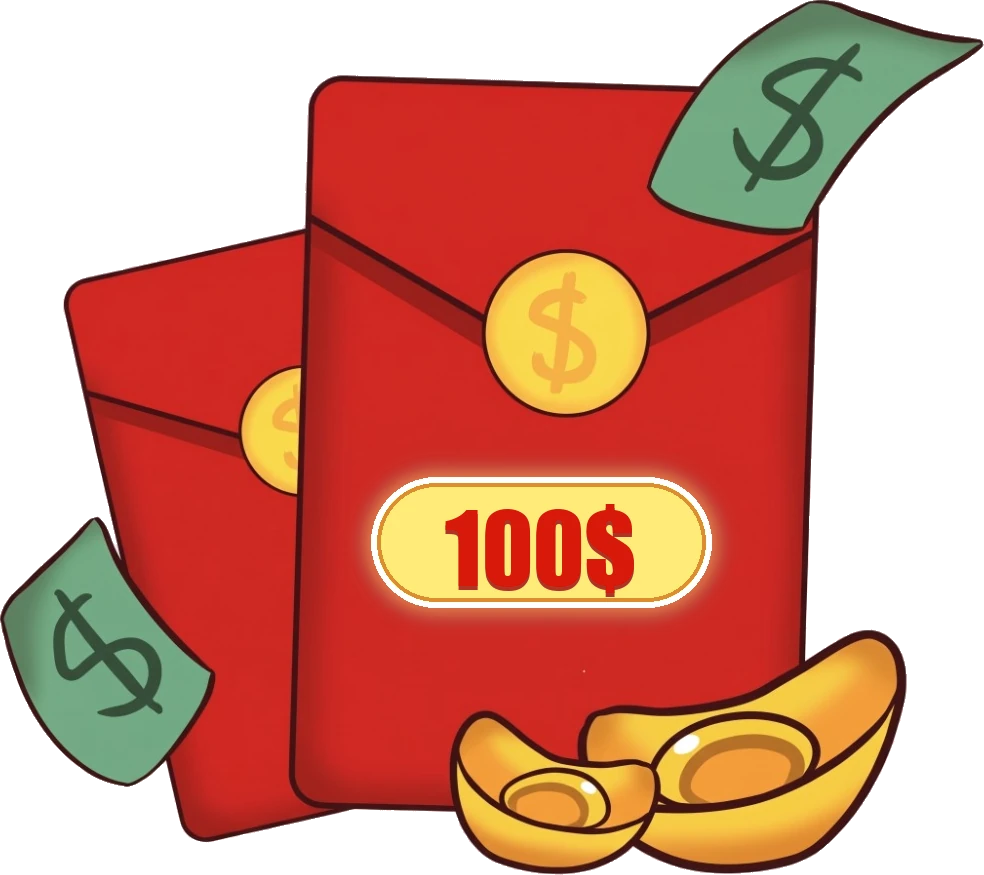
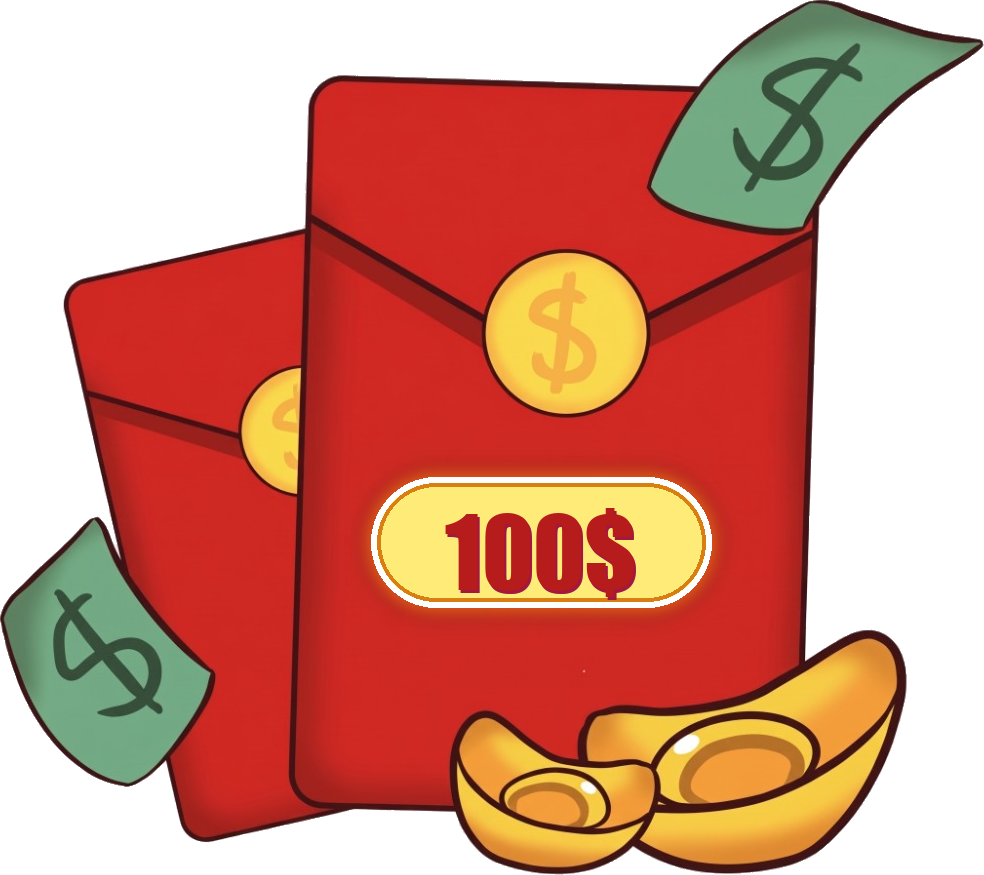
fix(angpao): regenerate 20$, 50$, 100$ angpaos from exact original user asset with identical gold pill badge design

Changed region(s): [[0.3659, 0.5246, 0.7317, 0.7097]]

diff --git a/index.html b/index.html
@@ -152,7 +152,7 @@
 
   </div> <!-- End Mobile Stage (9:16) -->
 
-  <script src="js/scratch.js?v=64"></script>
+  <script src="js/scratch.js?v=65"></script>
 </body>
 
 </html>
